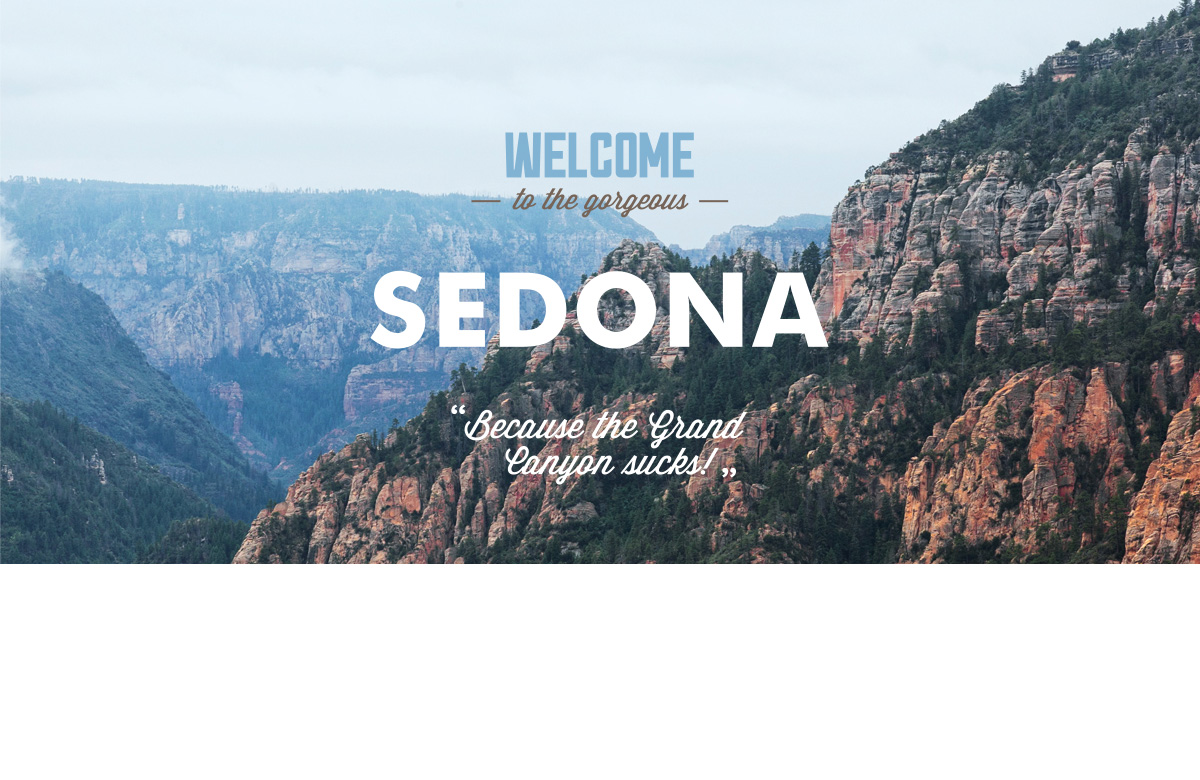
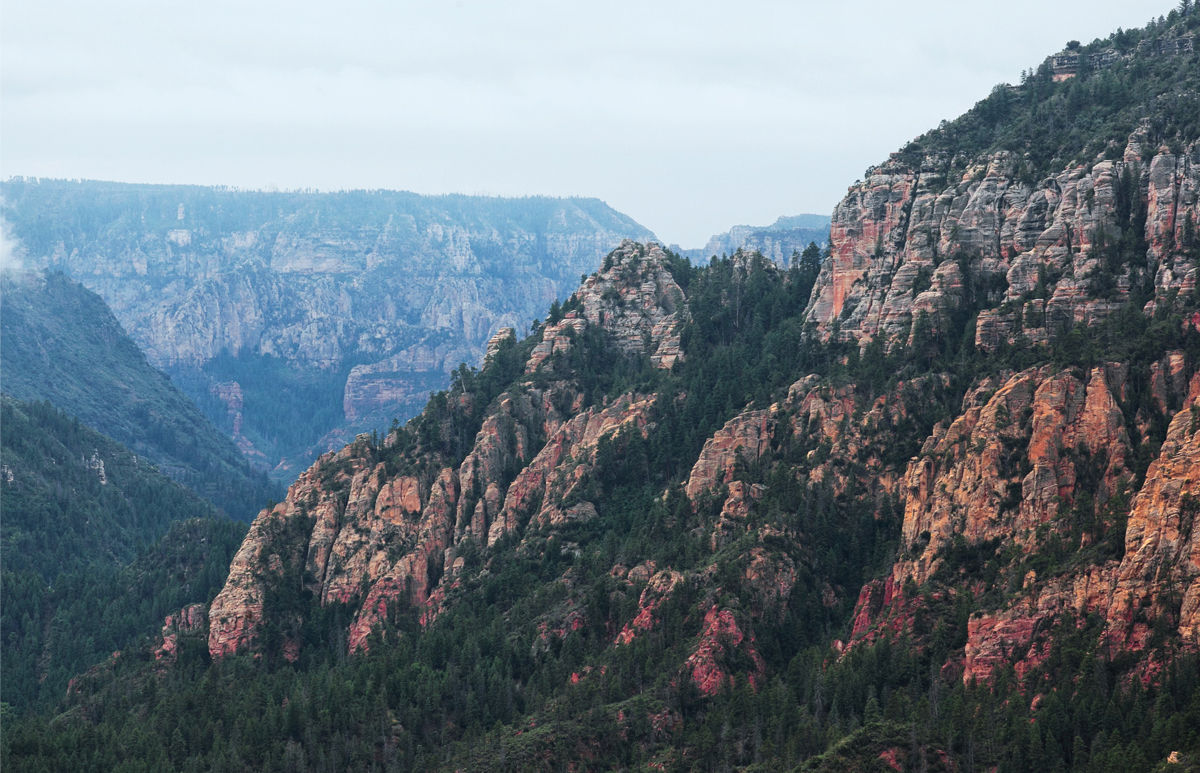
пиксель перфект - проблема с фоном

diff --git a/css/style.css b/css/style.css
@@ -62,6 +62,7 @@ input[type="radio"].visually-hidden {
   margin: 0 auto;
   padding: 0;
   justify-content: center; 
+  
 }
 
 .main-header {
@@ -93,10 +94,10 @@ input[type="radio"].visually-hidden {
 }
 
 .site-navigation li {
-  width: 240px;
+  
   margin: 0;
-  padding-top:22px;
-  padding-bottom:22px;
+  padding-top: 16px;
+  padding-bottom: 19px;
  
   text-align: center;
   color: #000000;
@@ -104,18 +105,27 @@ input[type="radio"].visually-hidden {
   
 }
 
+.site-navigation li:nth-child(1) {
+  margin-left: 71px;
+
+}
+
 .site-navigation li:nth-child(2) {
-  margin-right: 120px;
+  margin-left: 148px;
 }
 
 .site-navigation li:nth-child(3) {
-  margin-left: 120px;
+   margin-left: 390px;
 }
+
+.site-navigation li:nth-child(4) {
+  margin-left: 163px;
+}
+
 
 .site-navigation a {
   color: #000000;
 }
-
 
 
 .site-navigation a:hover {
@@ -140,20 +150,40 @@ input[type="radio"].visually-hidden {
 }
 
 .background {
+  width: 1200px;
   height: 510px; 
   background-image: url(../img/background-photo.jpg);
   position: relative;
+
+}
+
+.background::before {
+  height: 353px;
+  width: 459px;
+  content: "";
+  background: url(../img/welcome.png) no-repeat;
+  position: absolute;
+  bottom: 0;
+  left: 0;
+  z-index: 2;
+  margin: auto;
+  top: 0; 
+  left: 0; 
+  bottom: 0; 
+  right: 0;
+  
+  
 }
 
 .background::after {
   height: 59px;
-  width: 100%;
+  width: 1200px;
   content: "";
   background: url(../img/intro-mask.svg);
   position: absolute;
-  bottom: 0;
+  bottom: 0px;
   left: 0;
-  z-index: 1;
+  z-index: 5;
   margin-bottom: -3px;
 }
 
@@ -175,7 +205,7 @@ input[type="radio"].visually-hidden {
   color: #000000;
   font-weight: 700;
   text-align: center;
-  padding-top: 65px;
+  padding-top: 57px;
   padding-bottom: 35px;
 }
 
@@ -184,9 +214,10 @@ input[type="radio"].visually-hidden {
   font-size: 14px;
   line-height: 26px;
   font-weight: 400;
-  text-align: center;
+  
   color: #333333;
-  margin: 0;
+  margin: -7px;
+  padding: 0;
   padding-bottom: 57px;
 }
 

diff --git a/index.html b/index.html
@@ -27,9 +27,8 @@
     </div>
       <h1 class="visually-hidden">Sedona</h1>
       <section class="slogan">
-      	 	<h2 class="slogan-main">Седона - это небольшой городок в Аризоне, <br>
-      		заслуживабший большего!</h2>	
-          <p class="features-text">Рассмотрим 5 причин, покоторым Седона круче, чем Гранд Каньон!</p>
+      	 	<h2 class="slogan-main">Седона — небольшой городок в Аризоне,<br> заслуживающий большего! </h2>	
+          <p class="features-text">Рассмотрим 5 причин, по которым Седона круче, чем гранд каньон!</p>
 	  </section>
       <section class="features">
         <div class="index-columns">
